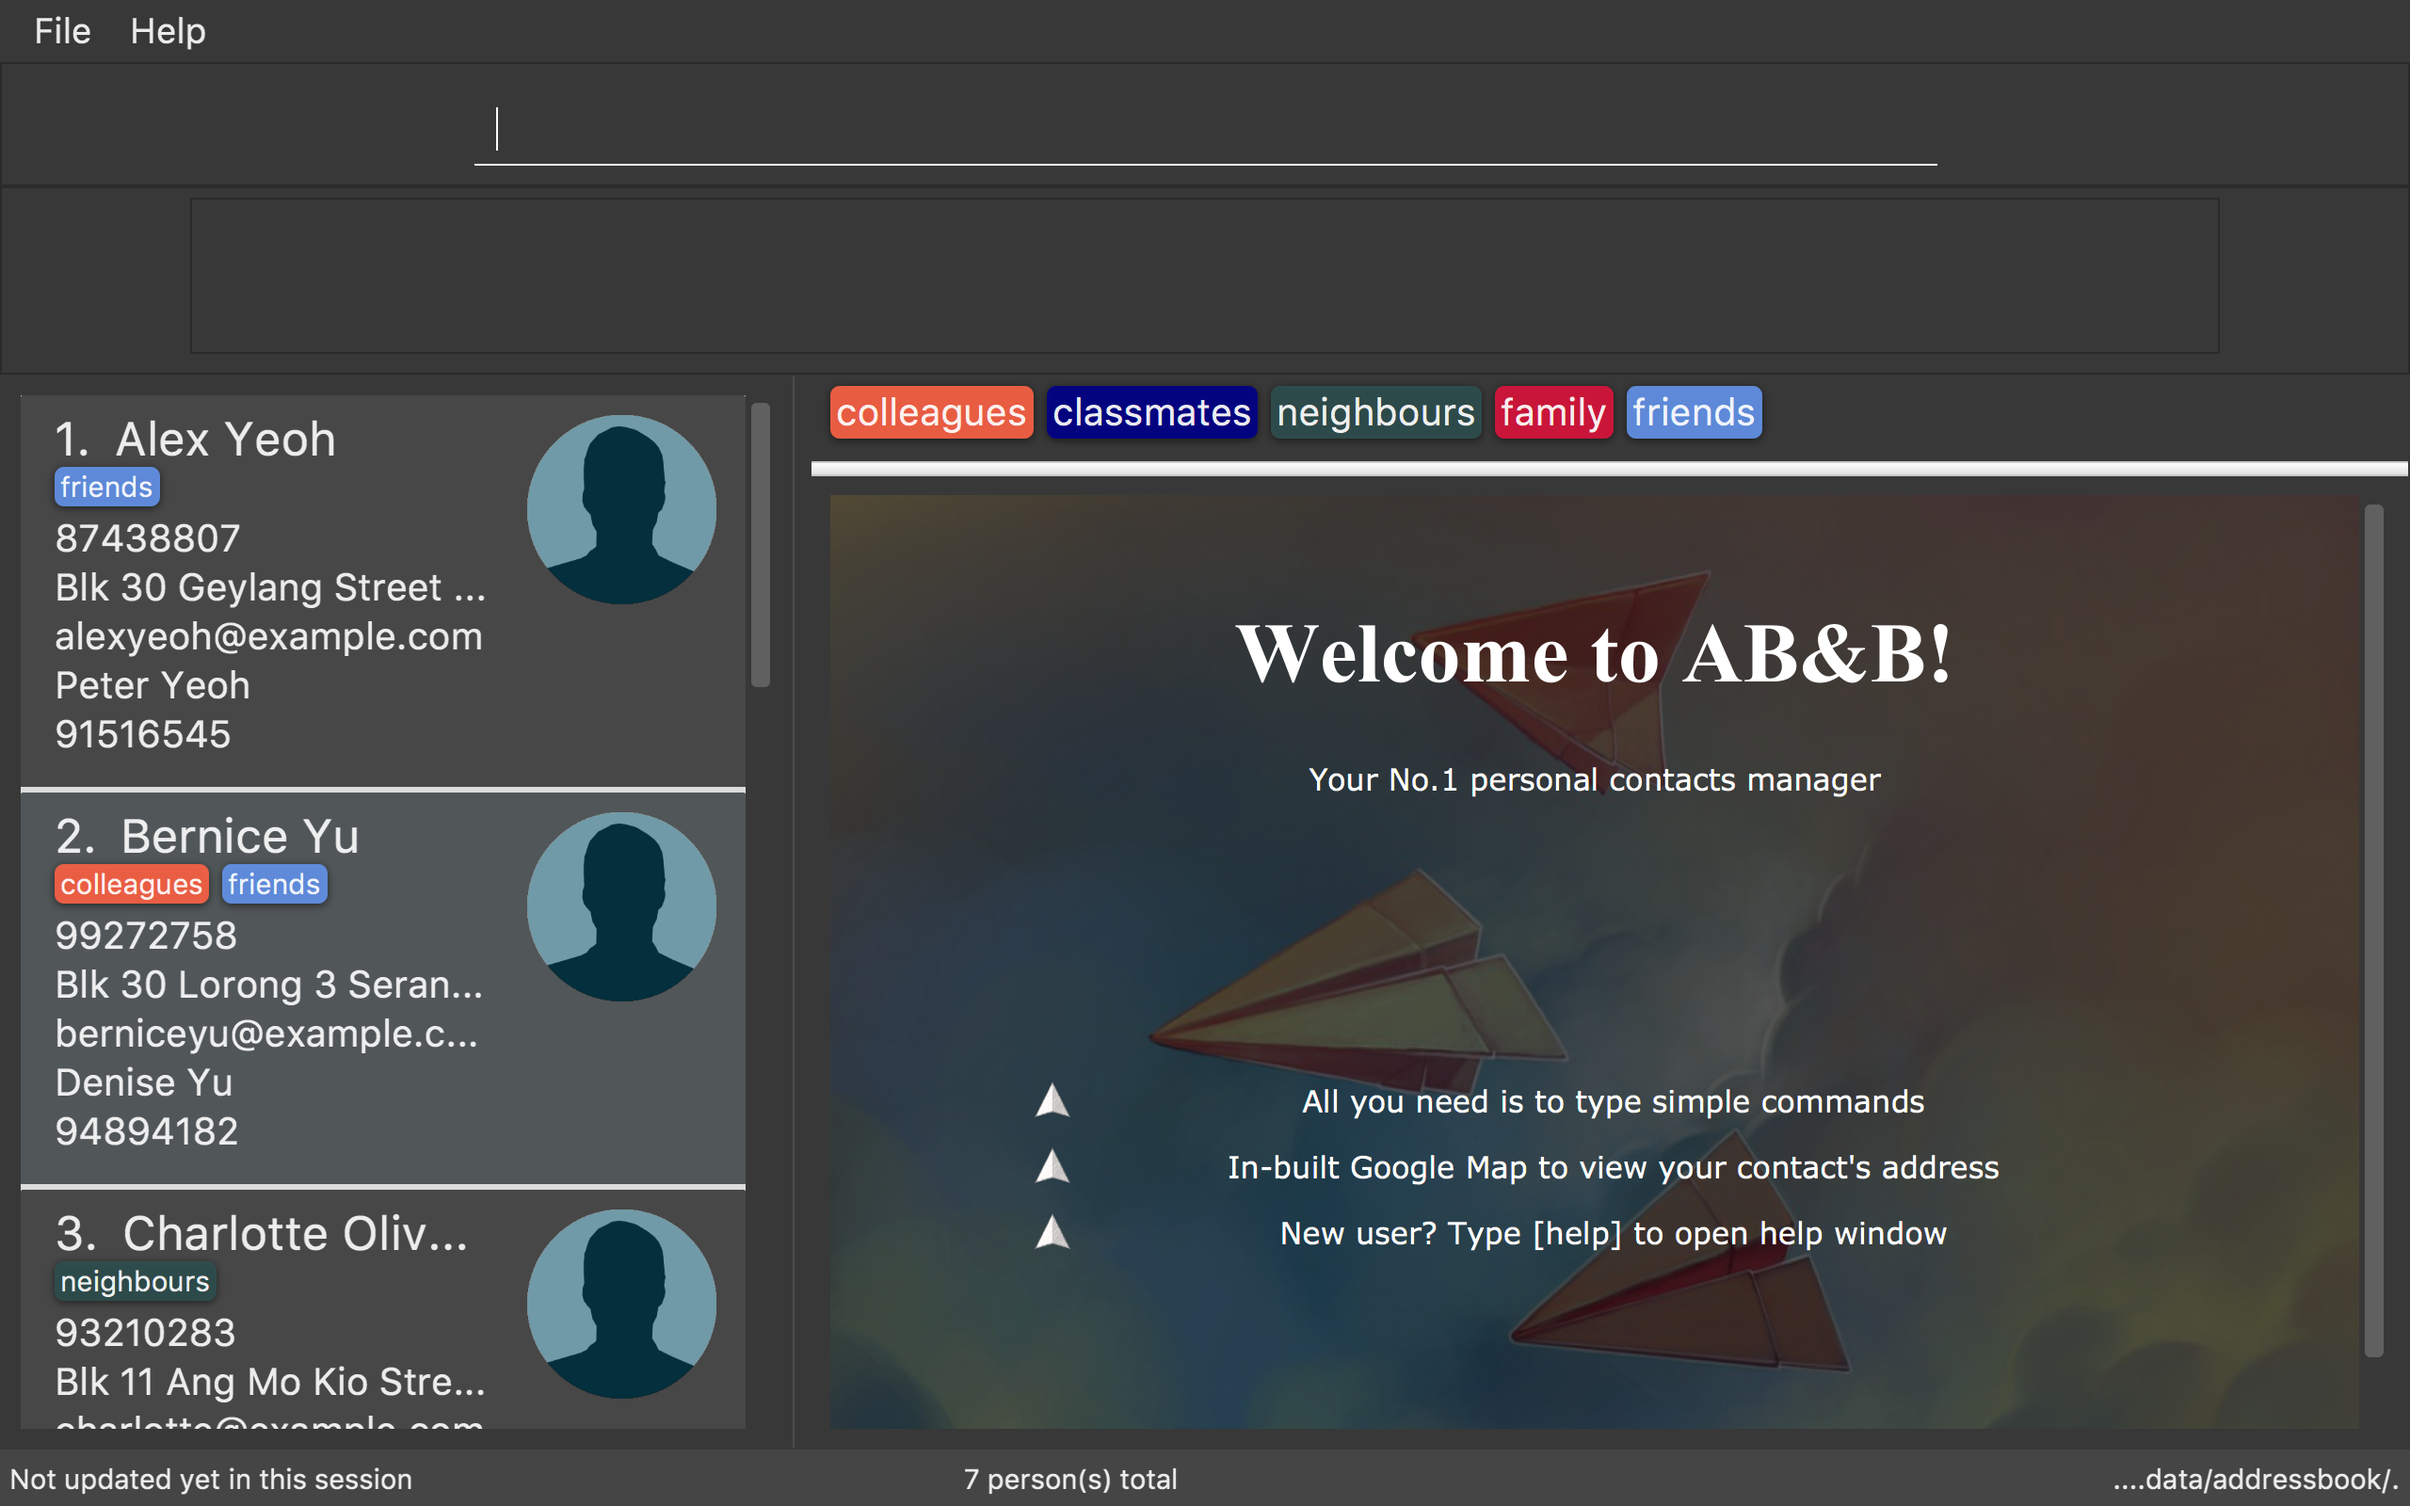
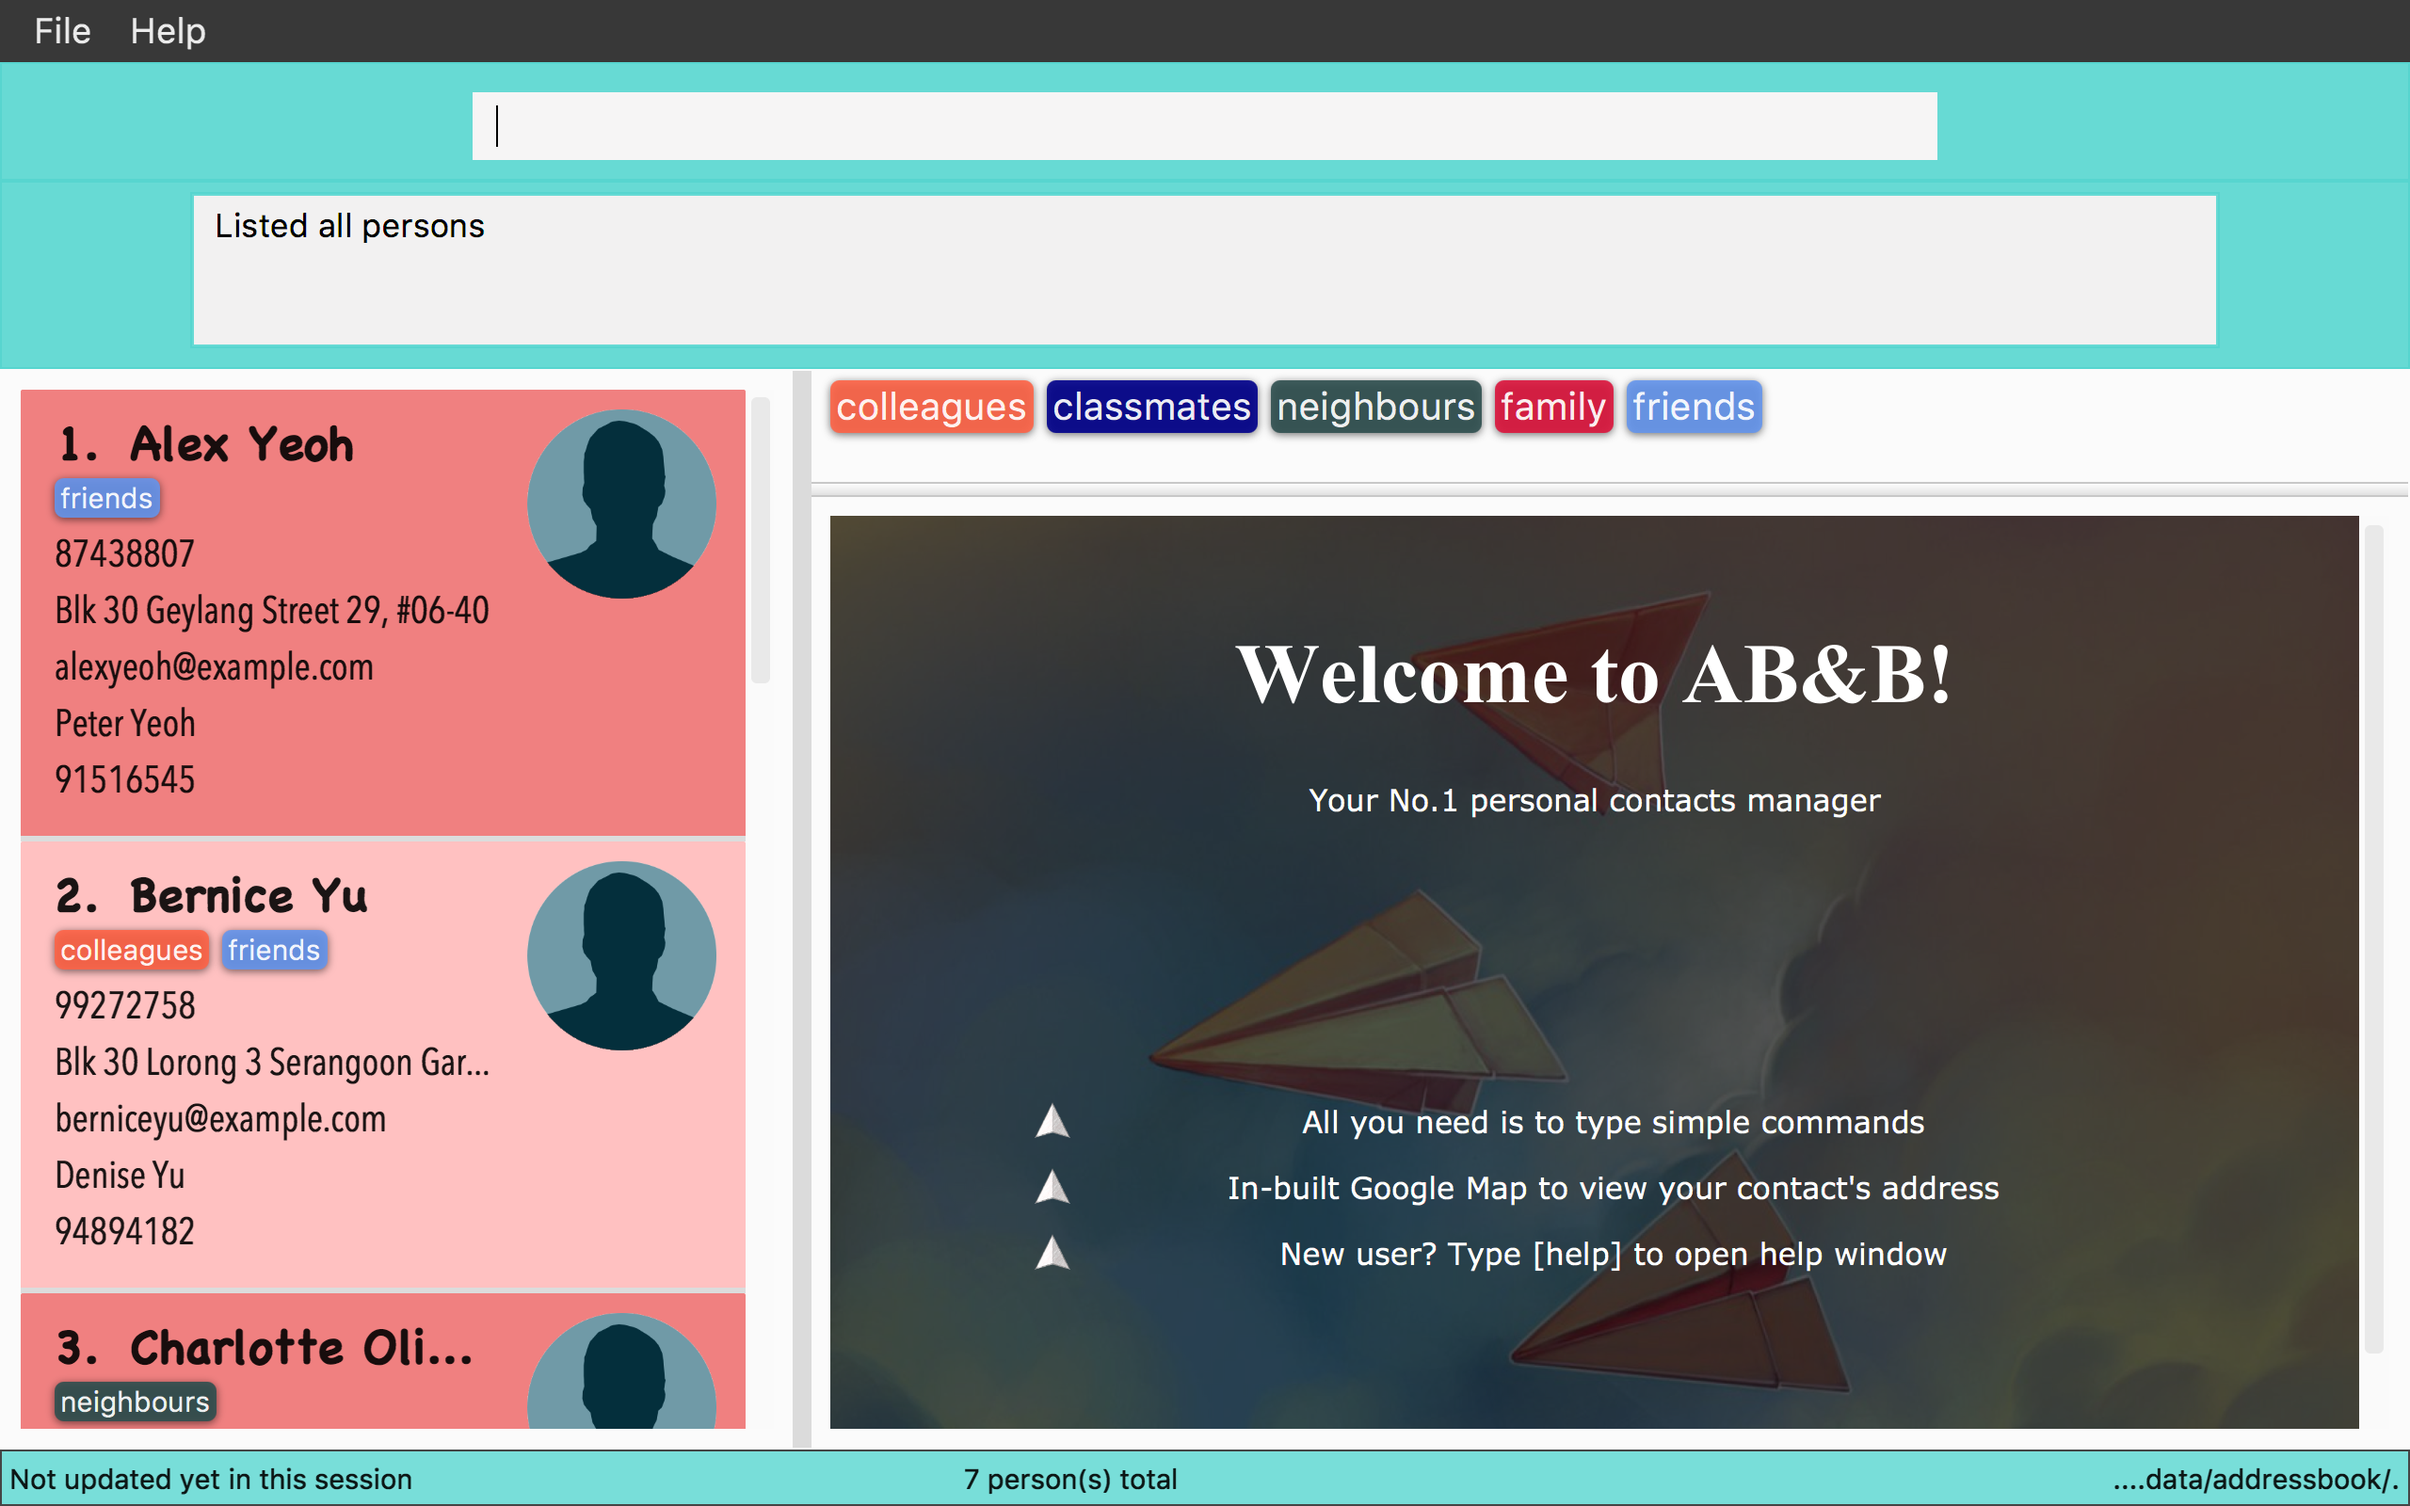
Update readme n userGuide

diff --git a/src/main/resources/view/SummerTheme.css b/src/main/resources/view/SummerTheme.css
@@ -140,7 +140,7 @@
 }
 
 .pane-with-border {
-     -fx-background-color: derive(#fffdbc, 20%);
+     -fx-background-color: #fffdbc;
      -fx-border-color: derive(#fffdbc, 10%);
      -fx-border-top-width: 1px;
 }
@@ -183,7 +183,7 @@
 }
 
 .grid-pane .anchor-pane {
-    -fx-background-color: derive(#fffdbc, 30%);
+    -fx-background-color: #fffdbc;
 }
 
 .context-menu {

diff --git a/src/main/resources/view/CrayonTheme.css b/src/main/resources/view/CrayonTheme.css
@@ -105,7 +105,7 @@
 .split-pane {
     -fx-border-radius: 1;
     -fx-border-width: 1;
-    -fx-background-color: derive(#fafafa, 20%);
+    -fx-background-color: #f5f5f5;
 }
 
 .list-view {
